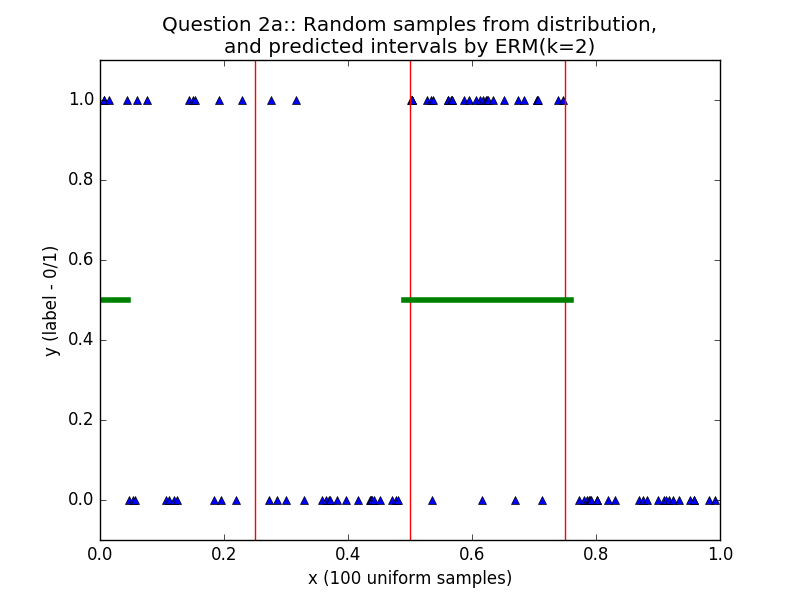
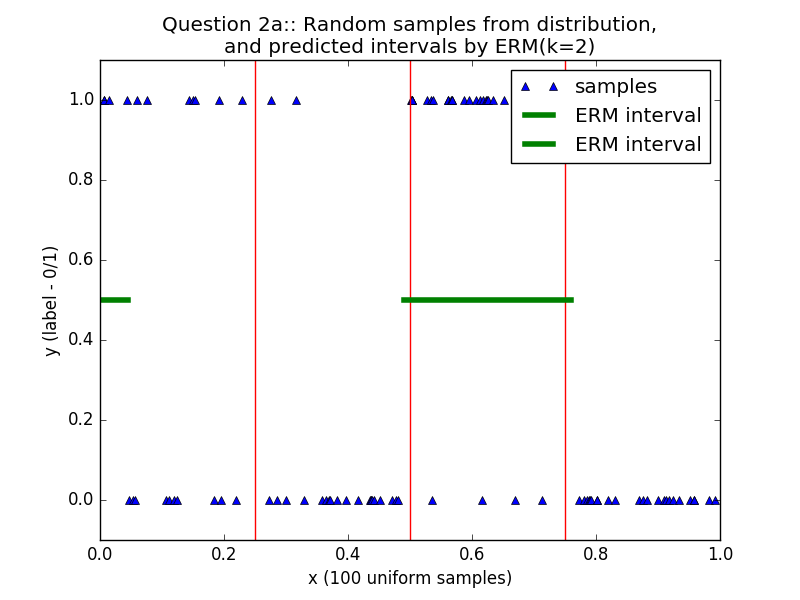
Added legends to graphs. Edited the README.

Changed region(s): [[0.625, 0.09, 0.9062, 0.3]]

diff --git a/ml_hw1/q2_union_of_intervals.py b/ml_hw1/q2_union_of_intervals.py
@@ -73,17 +73,18 @@ def Q2_a(output_directory):
 
     def part_i():
         pyplot.gca().set_ylim([-0.1, 1.1])
-        pyplot.plot(x, y, 'b^')
+        pyplot.plot(x, y, 'b^', label="samples")
     def part_ii():
         for x_boundary in [0.25, 0.5, 0.75]:
             pyplot.plot([x_boundary, x_boundary], [-0.1, 1.1], 'r-')
     def part_iii():
         k_intervals, error = intervals.find_best_interval(x, y, 2)
         for x0, x1 in k_intervals:
-            pyplot.plot([x0, x1], [0.5, 0.5], 'g-', linewidth=4)
+            pyplot.plot([x0, x1], [0.5, 0.5], 'g-', linewidth=4, label="ERM interval")
     part_i()
     part_ii()
     part_iii()
+    pyplot.legend()
     pyplot.xlabel("x ({} uniform samples)".format(m))
     pyplot.ylabel("y (label - 0/1)")
     pyplot.title("Question 2a:: Random samples from distribution,\nand predicted intervals by ERM(k=2)")
@@ -183,8 +184,9 @@ def Q2_f(output_directory):
             pyplot.plot(validation_x, validation_y, 'b*')
     best_k = k_values[numpy.argmin(errors)]
     print "\tBest k using validation:", best_k
-    pyplot.plot([best_k, best_k], [0, 1], "r--")
-    pyplot.plot(k_values, errors, 'b^--')
+    pyplot.plot([best_k, best_k], [0, 1], "r--", label="best k")
+    pyplot.plot(k_values, errors, 'b^--', label="validation empirical error")
+    pyplot.legend()
     pyplot.title("Quetion 2f:: Empirical error of validation\nas a function of k (using ERM)")
     pyplot.xlabel("k")
     pyplot.ylabel("Empirical error")

diff --git a/ml_hw1/main.py b/ml_hw1/main.py
@@ -12,7 +12,9 @@ def main(argv):
         print "Usage: {} <output-directory>".format(__file__)
         sys.exit(2)
     output_directory = argv[1]
-    os.mkdir(output_directory)
+    if not os.path.exists(output_directory):
+        os.mkdir(output_directory)
+    assert os.path.isdir(output_directory)
     q1_knn.main(output_directory)
     q2_union_of_intervals.main(output_directory)
 

diff --git a/ml_hw1/q1_knn.py b/ml_hw1/q1_knn.py
@@ -50,9 +50,8 @@ def NormalizeUniform(train, test):
     diff[diff == 0] = 1.
     return (train - _min) / diff, (test - _min) / diff
 
-
+# Q1_a
 def kNN(images, labels, query_image, k):
-    # Q1_a
     assert len(images) == len(labels)
     assert k <= len(images)
     assert len(images) > 0
